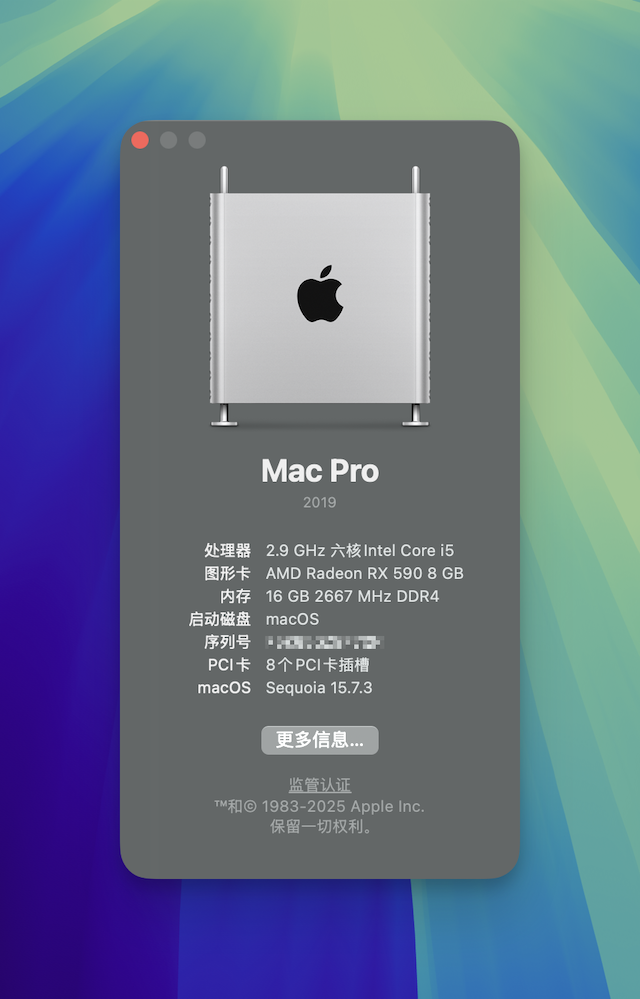
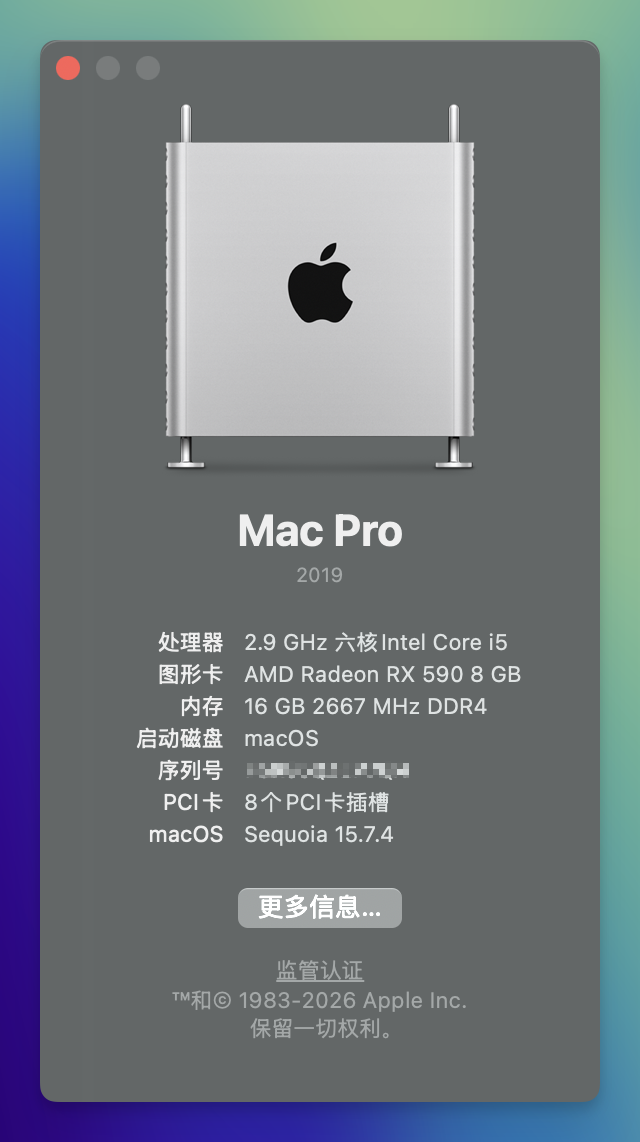
macOS 15.7.4

diff --git a/README.md b/README.md
@@ -1,6 +1,6 @@
 <!---  Update the following   -->
 
-[os_img]: https://img.shields.io/badge/macOS-15.7.3-6D67E4
+[os_img]: https://img.shields.io/badge/macOS-15.7.4-6D67E4
 [os_link]: https://developer.apple.com/documentation/macos-release-notes
 
 [oc_img]: https://img.shields.io/badge/OpenCore-1.0.5-519872
@@ -40,7 +40,7 @@
 
 | Version  |  Date      | Compatibility     | OC & OCLP      | Changes         |
 | :------: | :--------: | ----------------- | :------------: | --------------- |
-| 5.4      | 2025-07-30 | 15.5 ~ 15.7.3     | 1.0.5 & 2.4.0  | Change SMBIOS from **iMacPro1,1** to **MacPro7,1** |
+| 5.4      | 2025-07-30 | 15.5 ~ 15.7.4     | 1.0.5 & 2.4.0  | Change SMBIOS from **iMacPro1,1** to **MacPro7,1** |
 | 5.3      | 2025-04-01 | 15.4 ~ 15.4.1     | 1.0.4 & 2.3.0  |                 |
 | 5.2      | 2024-12-12 | 15.2 ~ 15.3.2     | 1.0.3 & 2.2.0  |                 |
 | 5.1      | 2024-10-30 | 15.1              | 1.0.2 & 2.0.2  |                 |
